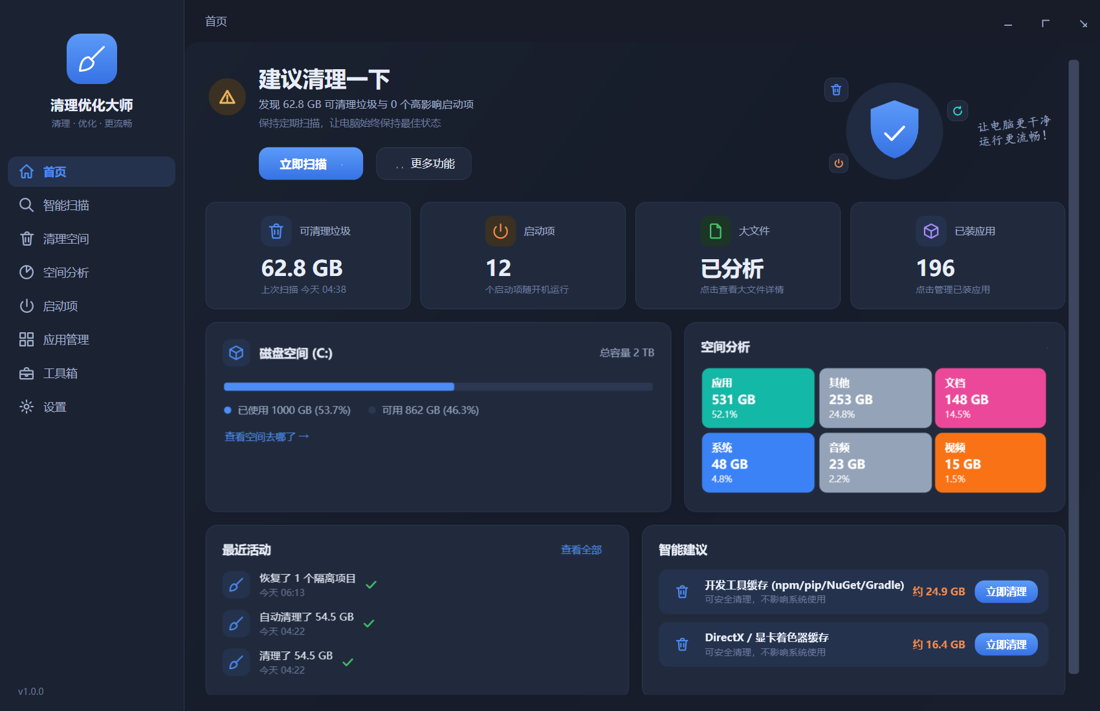
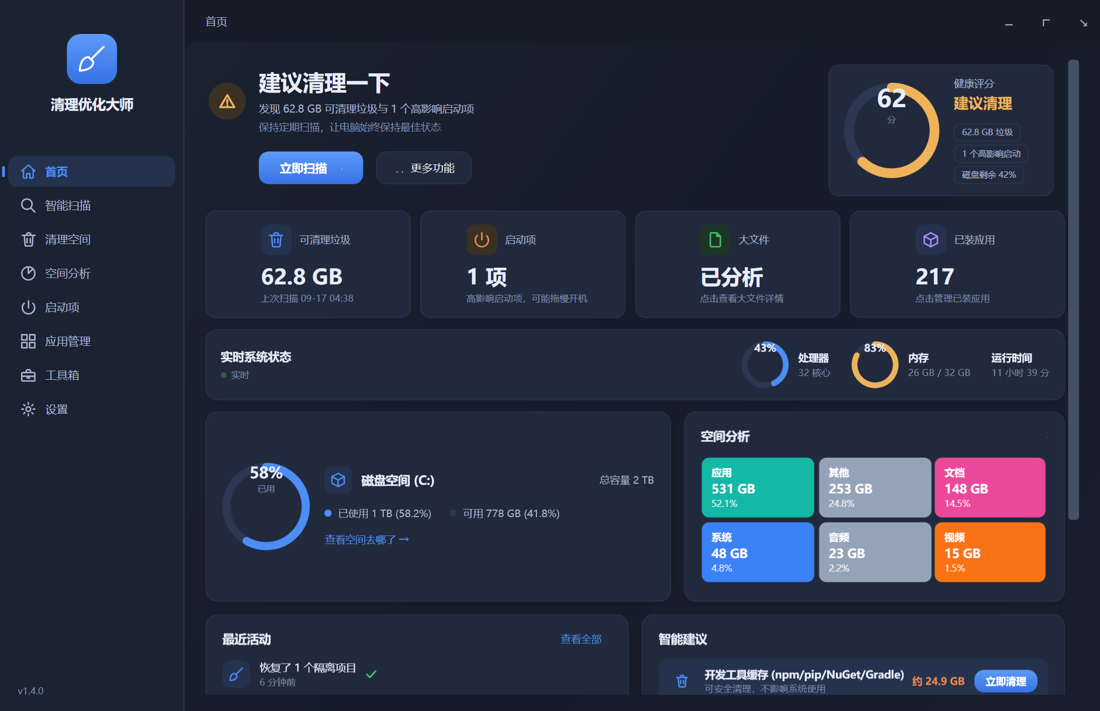
docs+fix: v2.5.0 文档全面改版至 2.4 功能面 + 启动弹窗本地化
- README 四语言(中/英/繁/日)全面改版:功能矩阵更新到 v2.4 全量
  (健康体检闭环/Ctrl+K/自定义清理目录/类型筛选/维护状态/开机耗时/
  8语言/窗口记忆等),新增体检与工具箱截图,自测数字 25→15 组,
  Roadmap 勾选已落地的开机耗时
- docs/images 归档新截图(home 亮/暗、health-check、toolbox)
- App 启动弹窗 i18n:单实例提示与内部错误弹窗随界面语言
  (设置/语言应用提前到弹窗前),补 3 词条 ×8 语言
- 空间分析切换盘符时重置类型筛选到「全部」
- 词条 685 ×8 语言

diff --git a/src/CleanMaster.App/Assets/Langs/ja-JP.xaml b/src/CleanMaster.App/Assets/Langs/ja-JP.xaml
@@ -1,6 +1,9 @@
 <ResourceDictionary xmlns="http://schemas.microsoft.com/winfx/2006/xaml/presentation"
                     xmlns:x="http://schemas.microsoft.com/winfx/2006/xaml"
                     xmlns:sys="clr-namespace:System;assembly=mscorlib">
+    <sys:String xml:space="preserve" x:Key="app.alreadyrunning">清理优化大师はすでに実行中です。</sys:String>
+    <sys:String xml:space="preserve" x:Key="app.error.msg">内部エラーが発生しました：</sys:String>
+    <sys:String xml:space="preserve" x:Key="app.title">清理优化大师</sys:String>
     <sys:String xml:space="preserve" x:Key="apps.col.date">インストール日</sys:String>
     <sys:String xml:space="preserve" x:Key="apps.col.name">アプリ</sys:String>
     <sys:String xml:space="preserve" x:Key="apps.col.publisher">発行元</sys:String>

diff --git a/src/CleanMaster.App/Assets/Langs/fr-FR.xaml b/src/CleanMaster.App/Assets/Langs/fr-FR.xaml
@@ -1,6 +1,9 @@
 <ResourceDictionary xmlns="http://schemas.microsoft.com/winfx/2006/xaml/presentation"
                     xmlns:x="http://schemas.microsoft.com/winfx/2006/xaml"
                     xmlns:sys="clr-namespace:System;assembly=mscorlib">
+    <sys:String xml:space="preserve" x:Key="app.alreadyrunning">CleanMaster est déjà en cours d'exécution.</sys:String>
+    <sys:String xml:space="preserve" x:Key="app.error.msg">Une erreur interne s'est produite :</sys:String>
+    <sys:String xml:space="preserve" x:Key="app.title">CleanMaster</sys:String>
     <sys:String xml:space="preserve" x:Key="apps.col.date">Installé le</sys:String>
     <sys:String xml:space="preserve" x:Key="apps.col.name">Application</sys:String>
     <sys:String xml:space="preserve" x:Key="apps.col.publisher">Éditeur</sys:String>

diff --git a/src/CleanMaster.App/Assets/Langs/zh-TW.xaml b/src/CleanMaster.App/Assets/Langs/zh-TW.xaml
@@ -1,6 +1,9 @@
 <ResourceDictionary xmlns="http://schemas.microsoft.com/winfx/2006/xaml/presentation"
                     xmlns:x="http://schemas.microsoft.com/winfx/2006/xaml"
                     xmlns:sys="clr-namespace:System;assembly=mscorlib">
+    <sys:String xml:space="preserve" x:Key="app.alreadyrunning">清理优化大师已经在运行了。</sys:String>
+    <sys:String xml:space="preserve" x:Key="app.error.msg">发生了一个内部错误：</sys:String>
+    <sys:String xml:space="preserve" x:Key="app.title">清理优化大师</sys:String>
     <sys:String xml:space="preserve" x:Key="apps.col.date">安裝日期</sys:String>
     <sys:String xml:space="preserve" x:Key="apps.col.name">應用程式</sys:String>
     <sys:String xml:space="preserve" x:Key="apps.col.publisher">發佈者</sys:String>

diff --git a/src/CleanMaster.App/Assets/Langs/zh-CN.xaml b/src/CleanMaster.App/Assets/Langs/zh-CN.xaml
@@ -1,6 +1,9 @@
 <ResourceDictionary xmlns="http://schemas.microsoft.com/winfx/2006/xaml/presentation"
                     xmlns:x="http://schemas.microsoft.com/winfx/2006/xaml"
                     xmlns:sys="clr-namespace:System;assembly=mscorlib">
+    <sys:String xml:space="preserve" x:Key="app.alreadyrunning">清理优化大师已经在运行了。</sys:String>
+    <sys:String xml:space="preserve" x:Key="app.error.msg">发生了一个内部错误：</sys:String>
+    <sys:String xml:space="preserve" x:Key="app.title">清理优化大师</sys:String>
     <sys:String xml:space="preserve" x:Key="apps.col.date">安装日期</sys:String>
     <sys:String xml:space="preserve" x:Key="apps.col.name">应用</sys:String>
     <sys:String xml:space="preserve" x:Key="apps.col.publisher">发布者</sys:String>

diff --git a/src/CleanMaster.App/Assets/Langs/ko-KR.xaml b/src/CleanMaster.App/Assets/Langs/ko-KR.xaml
@@ -1,6 +1,9 @@
 <ResourceDictionary xmlns="http://schemas.microsoft.com/winfx/2006/xaml/presentation"
                     xmlns:x="http://schemas.microsoft.com/winfx/2006/xaml"
                     xmlns:sys="clr-namespace:System;assembly=mscorlib">
+    <sys:String xml:space="preserve" x:Key="app.alreadyrunning">CleanMasterが既に実行中です。</sys:String>
+    <sys:String xml:space="preserve" x:Key="app.error.msg">内部エラーが発生しました：</sys:String>
+    <sys:String xml:space="preserve" x:Key="app.title">CleanMaster</sys:String>
     <sys:String xml:space="preserve" x:Key="apps.col.date">설치 날짜</sys:String>
     <sys:String xml:space="preserve" x:Key="apps.col.name">앱</sys:String>
     <sys:String xml:space="preserve" x:Key="apps.col.publisher">게시자</sys:String>

diff --git a/src/CleanMaster.App/Assets/Langs/de-DE.xaml b/src/CleanMaster.App/Assets/Langs/de-DE.xaml
@@ -1,6 +1,9 @@
 <ResourceDictionary xmlns="http://schemas.microsoft.com/winfx/2006/xaml/presentation"
                     xmlns:x="http://schemas.microsoft.com/winfx/2006/xaml"
                     xmlns:sys="clr-namespace:System;assembly=mscorlib">
+    <sys:String xml:space="preserve" x:Key="app.alreadyrunning">CleanMaster wird bereits ausgeführt.</sys:String>
+    <sys:String xml:space="preserve" x:Key="app.error.msg">Ein interner Fehler ist aufgetreten:</sys:String>
+    <sys:String xml:space="preserve" x:Key="app.title">CleanMaster</sys:String>
     <sys:String xml:space="preserve" x:Key="apps.col.date">Installiert am</sys:String>
     <sys:String xml:space="preserve" x:Key="apps.col.name">App</sys:String>
     <sys:String xml:space="preserve" x:Key="apps.col.publisher">Herausgeber</sys:String>

diff --git a/src/CleanMaster.App/Assets/Langs/es-ES.xaml b/src/CleanMaster.App/Assets/Langs/es-ES.xaml
@@ -1,6 +1,9 @@
 <ResourceDictionary xmlns="http://schemas.microsoft.com/winfx/2006/xaml/presentation"
                     xmlns:x="http://schemas.microsoft.com/winfx/2006/xaml"
                     xmlns:sys="clr-namespace:System;assembly=mscorlib">
+    <sys:String xml:space="preserve" x:Key="app.alreadyrunning">CleanMaster ya se está ejecutando.</sys:String>
+    <sys:String xml:space="preserve" x:Key="app.error.msg">Se ha producido un error interno:</sys:String>
+    <sys:String xml:space="preserve" x:Key="app.title">CleanMaster</sys:String>
     <sys:String xml:space="preserve" x:Key="apps.col.date">Instalado</sys:String>
     <sys:String xml:space="preserve" x:Key="apps.col.name">Aplicación</sys:String>
     <sys:String xml:space="preserve" x:Key="apps.col.publisher">Editor</sys:String>

diff --git a/src/CleanMaster.App/Assets/Langs/en-US.xaml b/src/CleanMaster.App/Assets/Langs/en-US.xaml
@@ -1,6 +1,9 @@
 <ResourceDictionary xmlns="http://schemas.microsoft.com/winfx/2006/xaml/presentation"
                     xmlns:x="http://schemas.microsoft.com/winfx/2006/xaml"
                     xmlns:sys="clr-namespace:System;assembly=mscorlib">
+    <sys:String xml:space="preserve" x:Key="app.alreadyrunning">CleanMaster is already running.</sys:String>
+    <sys:String xml:space="preserve" x:Key="app.error.msg">An internal error occurred:</sys:String>
+    <sys:String xml:space="preserve" x:Key="app.title">CleanMaster</sys:String>
     <sys:String xml:space="preserve" x:Key="apps.col.date">Installed</sys:String>
     <sys:String xml:space="preserve" x:Key="apps.col.name">App</sys:String>
     <sys:String xml:space="preserve" x:Key="apps.col.publisher">Publisher</sys:String>

diff --git a/src/CleanMaster.App/App.xaml.cs b/src/CleanMaster.App/App.xaml.cs
@@ -37,17 +37,19 @@ public partial class App : Application
             return;
         }
 
-        // —— 单实例 ——
+        // —— 单实例(语言先行,提示语随界面语言) ——
+        SettingsService.Load();
         _singleInstanceMutex = new Mutex(true, "CleanMaster_SingleInstance_2F1A", out var isNew);
         if (!isNew)
         {
-            MessageBox.Show("清理优化大师已经在运行了。", "清理优化大师",
+            ThemeManager.ApplyFromSettings();
+            Loc.ApplyFromSettings();
+            MessageBox.Show(Loc.T("app.alreadyrunning"), Loc.T("app.title"),
                 MessageBoxButton.OK, MessageBoxImage.Information);
             Shutdown(0);
             return;
         }
 
-        SettingsService.Load();
         QuarantineService.Instance.PurgeExpired();
         ThemeManager.ApplyFromSettings();
         Loc.ApplyFromSettings();
@@ -61,7 +63,7 @@ public partial class App : Application
         // 全局异常兜底：记录并提示，不闪退
         DispatcherUnhandledException += (s, args) =>
         {
-            try { HistoryService.Add("Error", "发生了一个内部错误", args.Exception.Message); } catch { }
+            try { HistoryService.Add("Error", Loc.T("app.error.msg"), args.Exception.Message); } catch { }
             MessageBox.Show($"发生了一个内部错误：\n{args.Exception.Message}", "清理优化大师",
                 MessageBoxButton.OK, MessageBoxImage.Warning);
             args.Handled = true;

diff --git a/scripts/lang_data_eu.py b/scripts/lang_data_eu.py
@@ -295,6 +295,8 @@ FR = {
     "hc.copy.header": "Rapport de bilan CleanMaster · {0}",
     "hc.copy.score": "Score : {0} ({1})",
     "hc.goto": "Corriger",
+    "app.title": "CleanMaster", "app.alreadyrunning": "CleanMaster est déjà en cours d'exécution.",
+    "app.error.msg": "Une erreur interne s'est produite :",
 }
 
 ES = {
@@ -592,6 +594,8 @@ ES = {
     "hc.copy.header": "Informe de revisión de CleanMaster · {0}",
     "hc.copy.score": "Puntuación: {0} ({1})",
     "hc.goto": "Corregir",
+    "app.title": "CleanMaster", "app.alreadyrunning": "CleanMaster ya se está ejecutando.",
+    "app.error.msg": "Se ha producido un error interno:",
 }
 
 DE = {
@@ -896,4 +900,6 @@ DE = {
     "hc.copy.header": "CleanMaster Prüfbericht · {0}",
     "hc.copy.score": "Bewertung: {0} ({1})",
     "hc.goto": "Beheben",
+    "app.title": "CleanMaster", "app.alreadyrunning": "CleanMaster wird bereits ausgeführt.",
+    "app.error.msg": "Ein interner Fehler ist aufgetreten:",
 }

diff --git a/scripts/lang_data_jako.py b/scripts/lang_data_jako.py
@@ -296,6 +296,8 @@ JA = {
     "hc.copy.header": "CleanMaster 体检レポート · {0}",
     "hc.copy.score": "スコア：{0}（{1}）",
     "hc.goto": "対処する",
+    "app.title": "清理优化大师", "app.alreadyrunning": "清理优化大师はすでに実行中です。",
+    "app.error.msg": "内部エラーが発生しました：",
 }
 
 KO = {
@@ -600,4 +602,6 @@ KO = {
     "hc.copy.header": "CleanMaster 검진 보고서 · {0}",
     "hc.copy.score": "점수: {0}({1})",
     "hc.goto": "처리하기",
+    "app.title": "CleanMaster", "app.alreadyrunning": "CleanMasterが既に実行中です。",
+    "app.error.msg": "内部エラーが発生しました：",
 }

diff --git a/src/CleanMaster.App/Pages/SpaceAnalysisPage.xaml.cs b/src/CleanMaster.App/Pages/SpaceAnalysisPage.xaml.cs
@@ -306,6 +306,9 @@ public partial class SpaceAnalysisPage : Page, IParamPage
     {
         if (!IsLoaded) return;
         _lastAnalysis = null;
+        _typeFilter = "";
+        foreach (var rb in TypeFilterHost.Children.OfType<RadioButton>().ToList())
+            if ((string?)rb.Tag == "") rb.IsChecked = true;
         FolderTree.Items.Clear();
         TreeCard.Visibility = Visibility.Collapsed;
         LargeList.Children.Clear();
